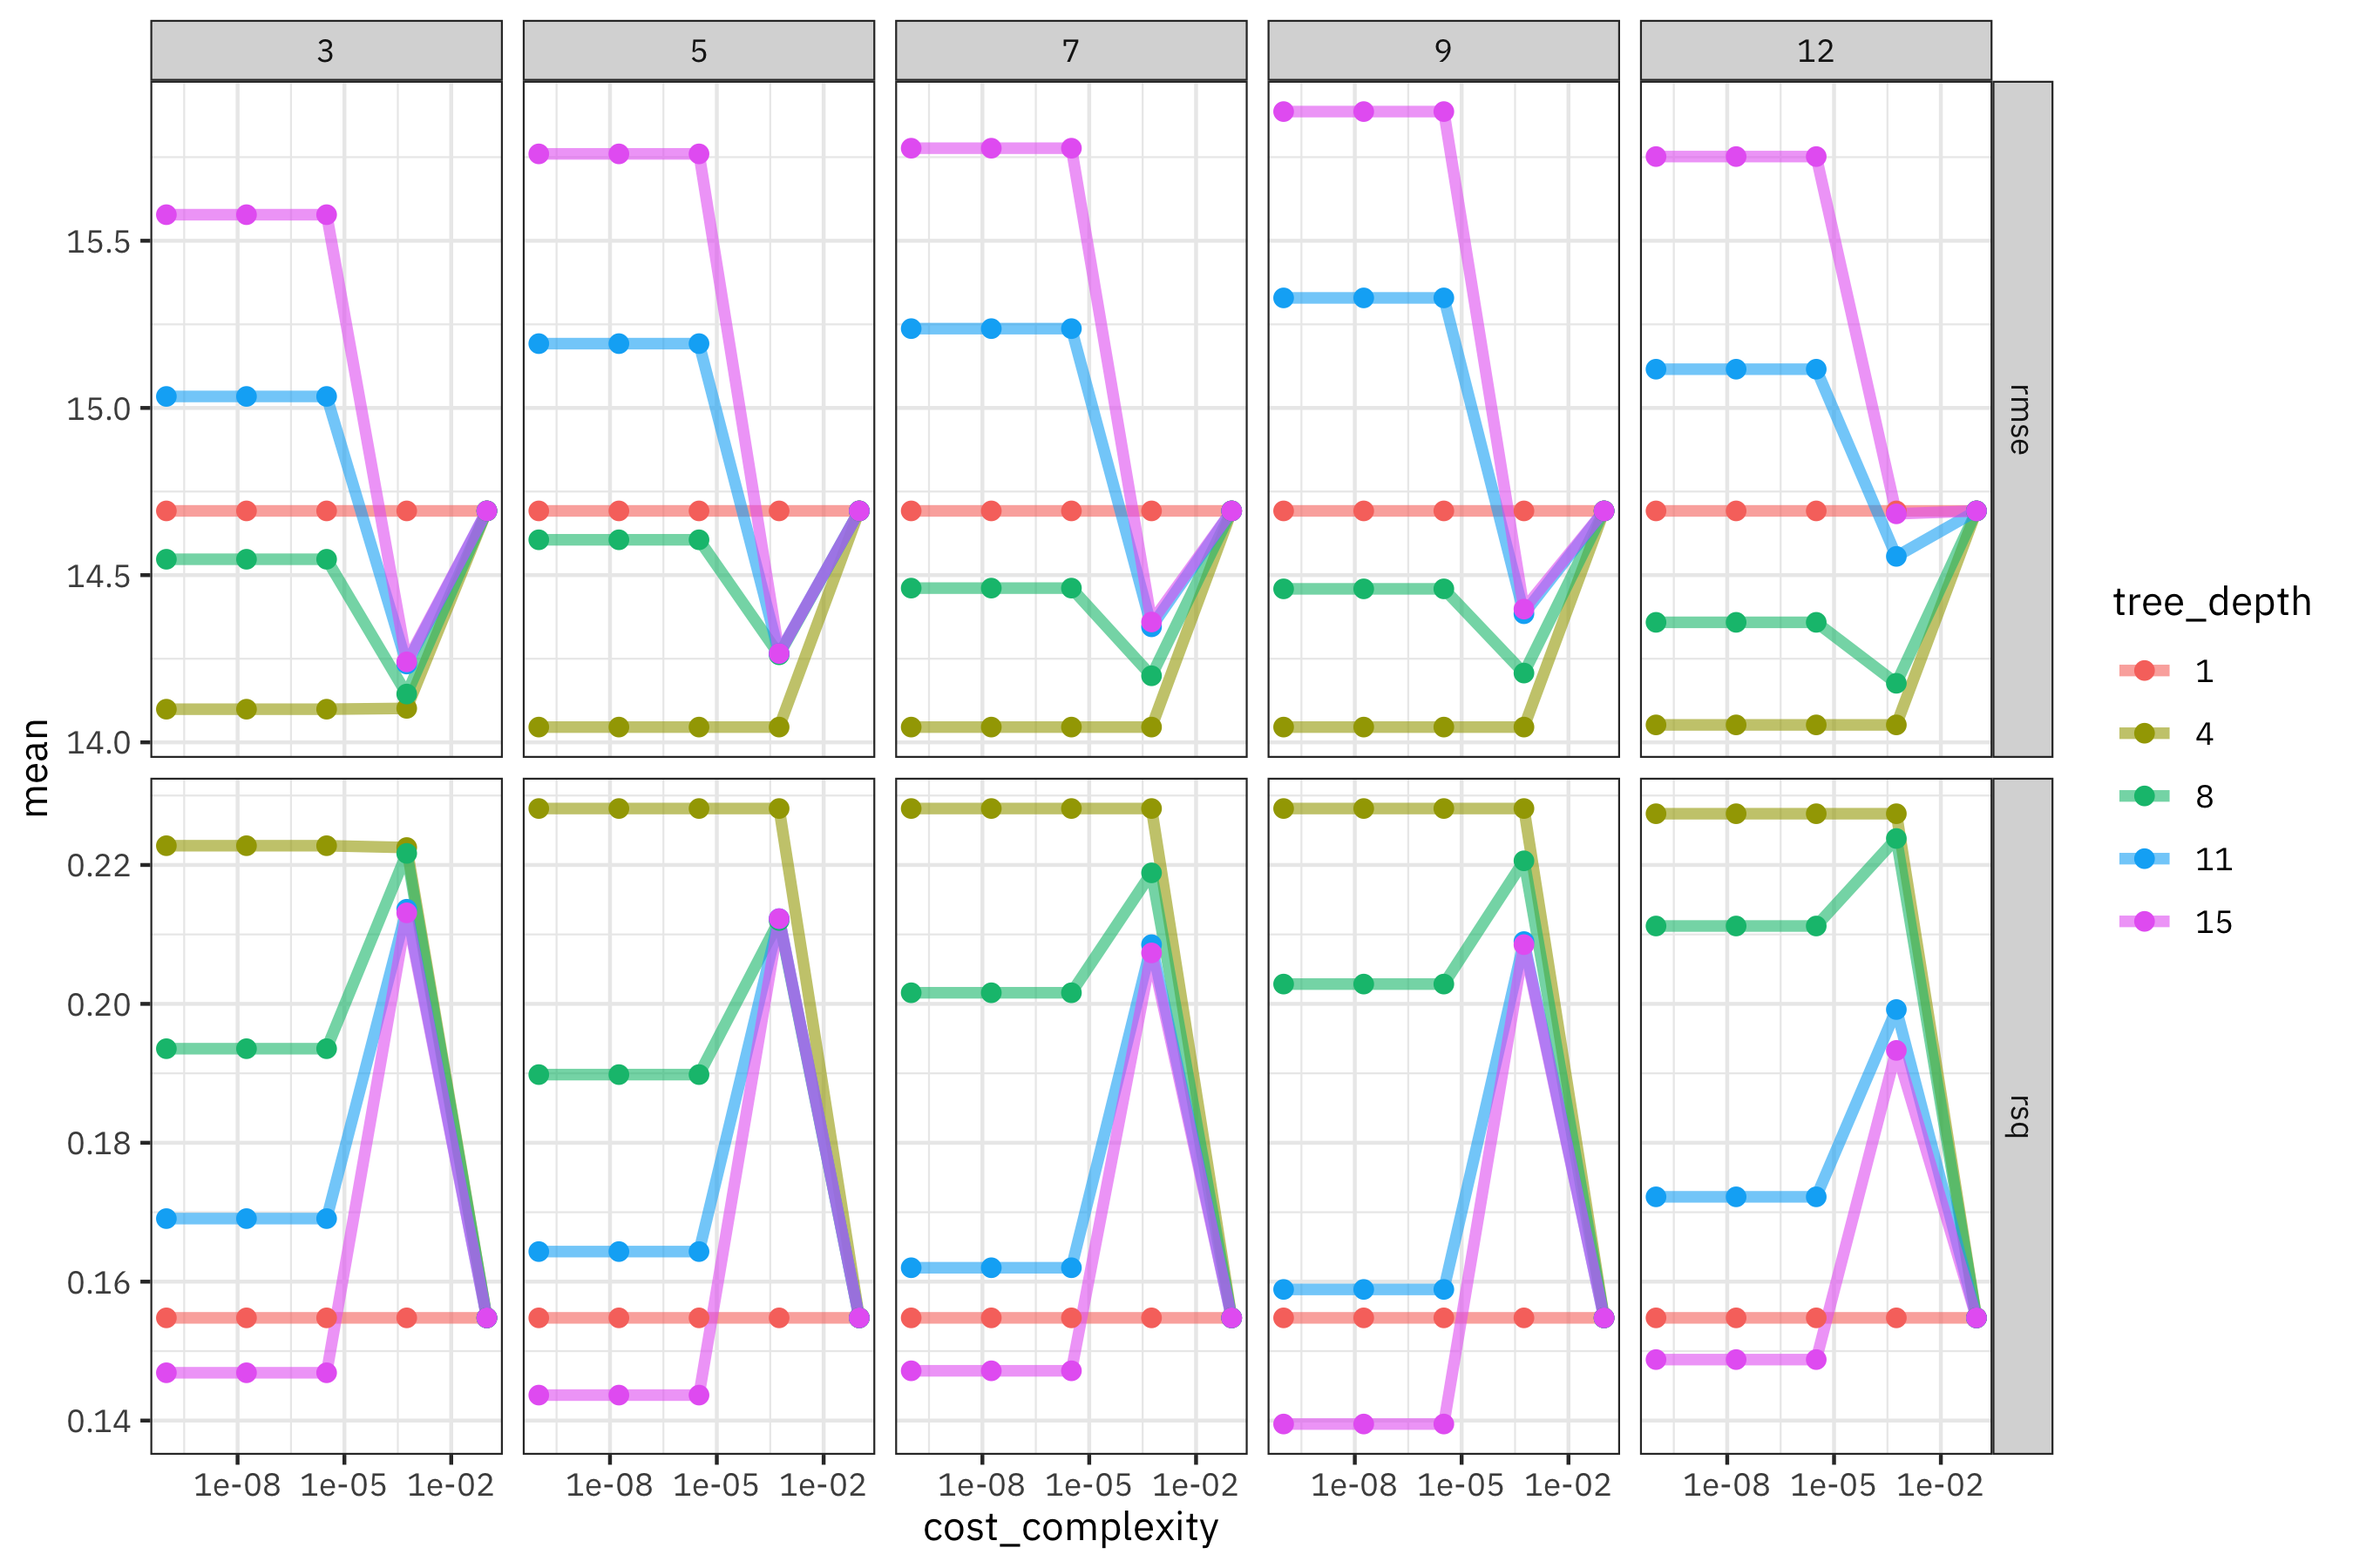
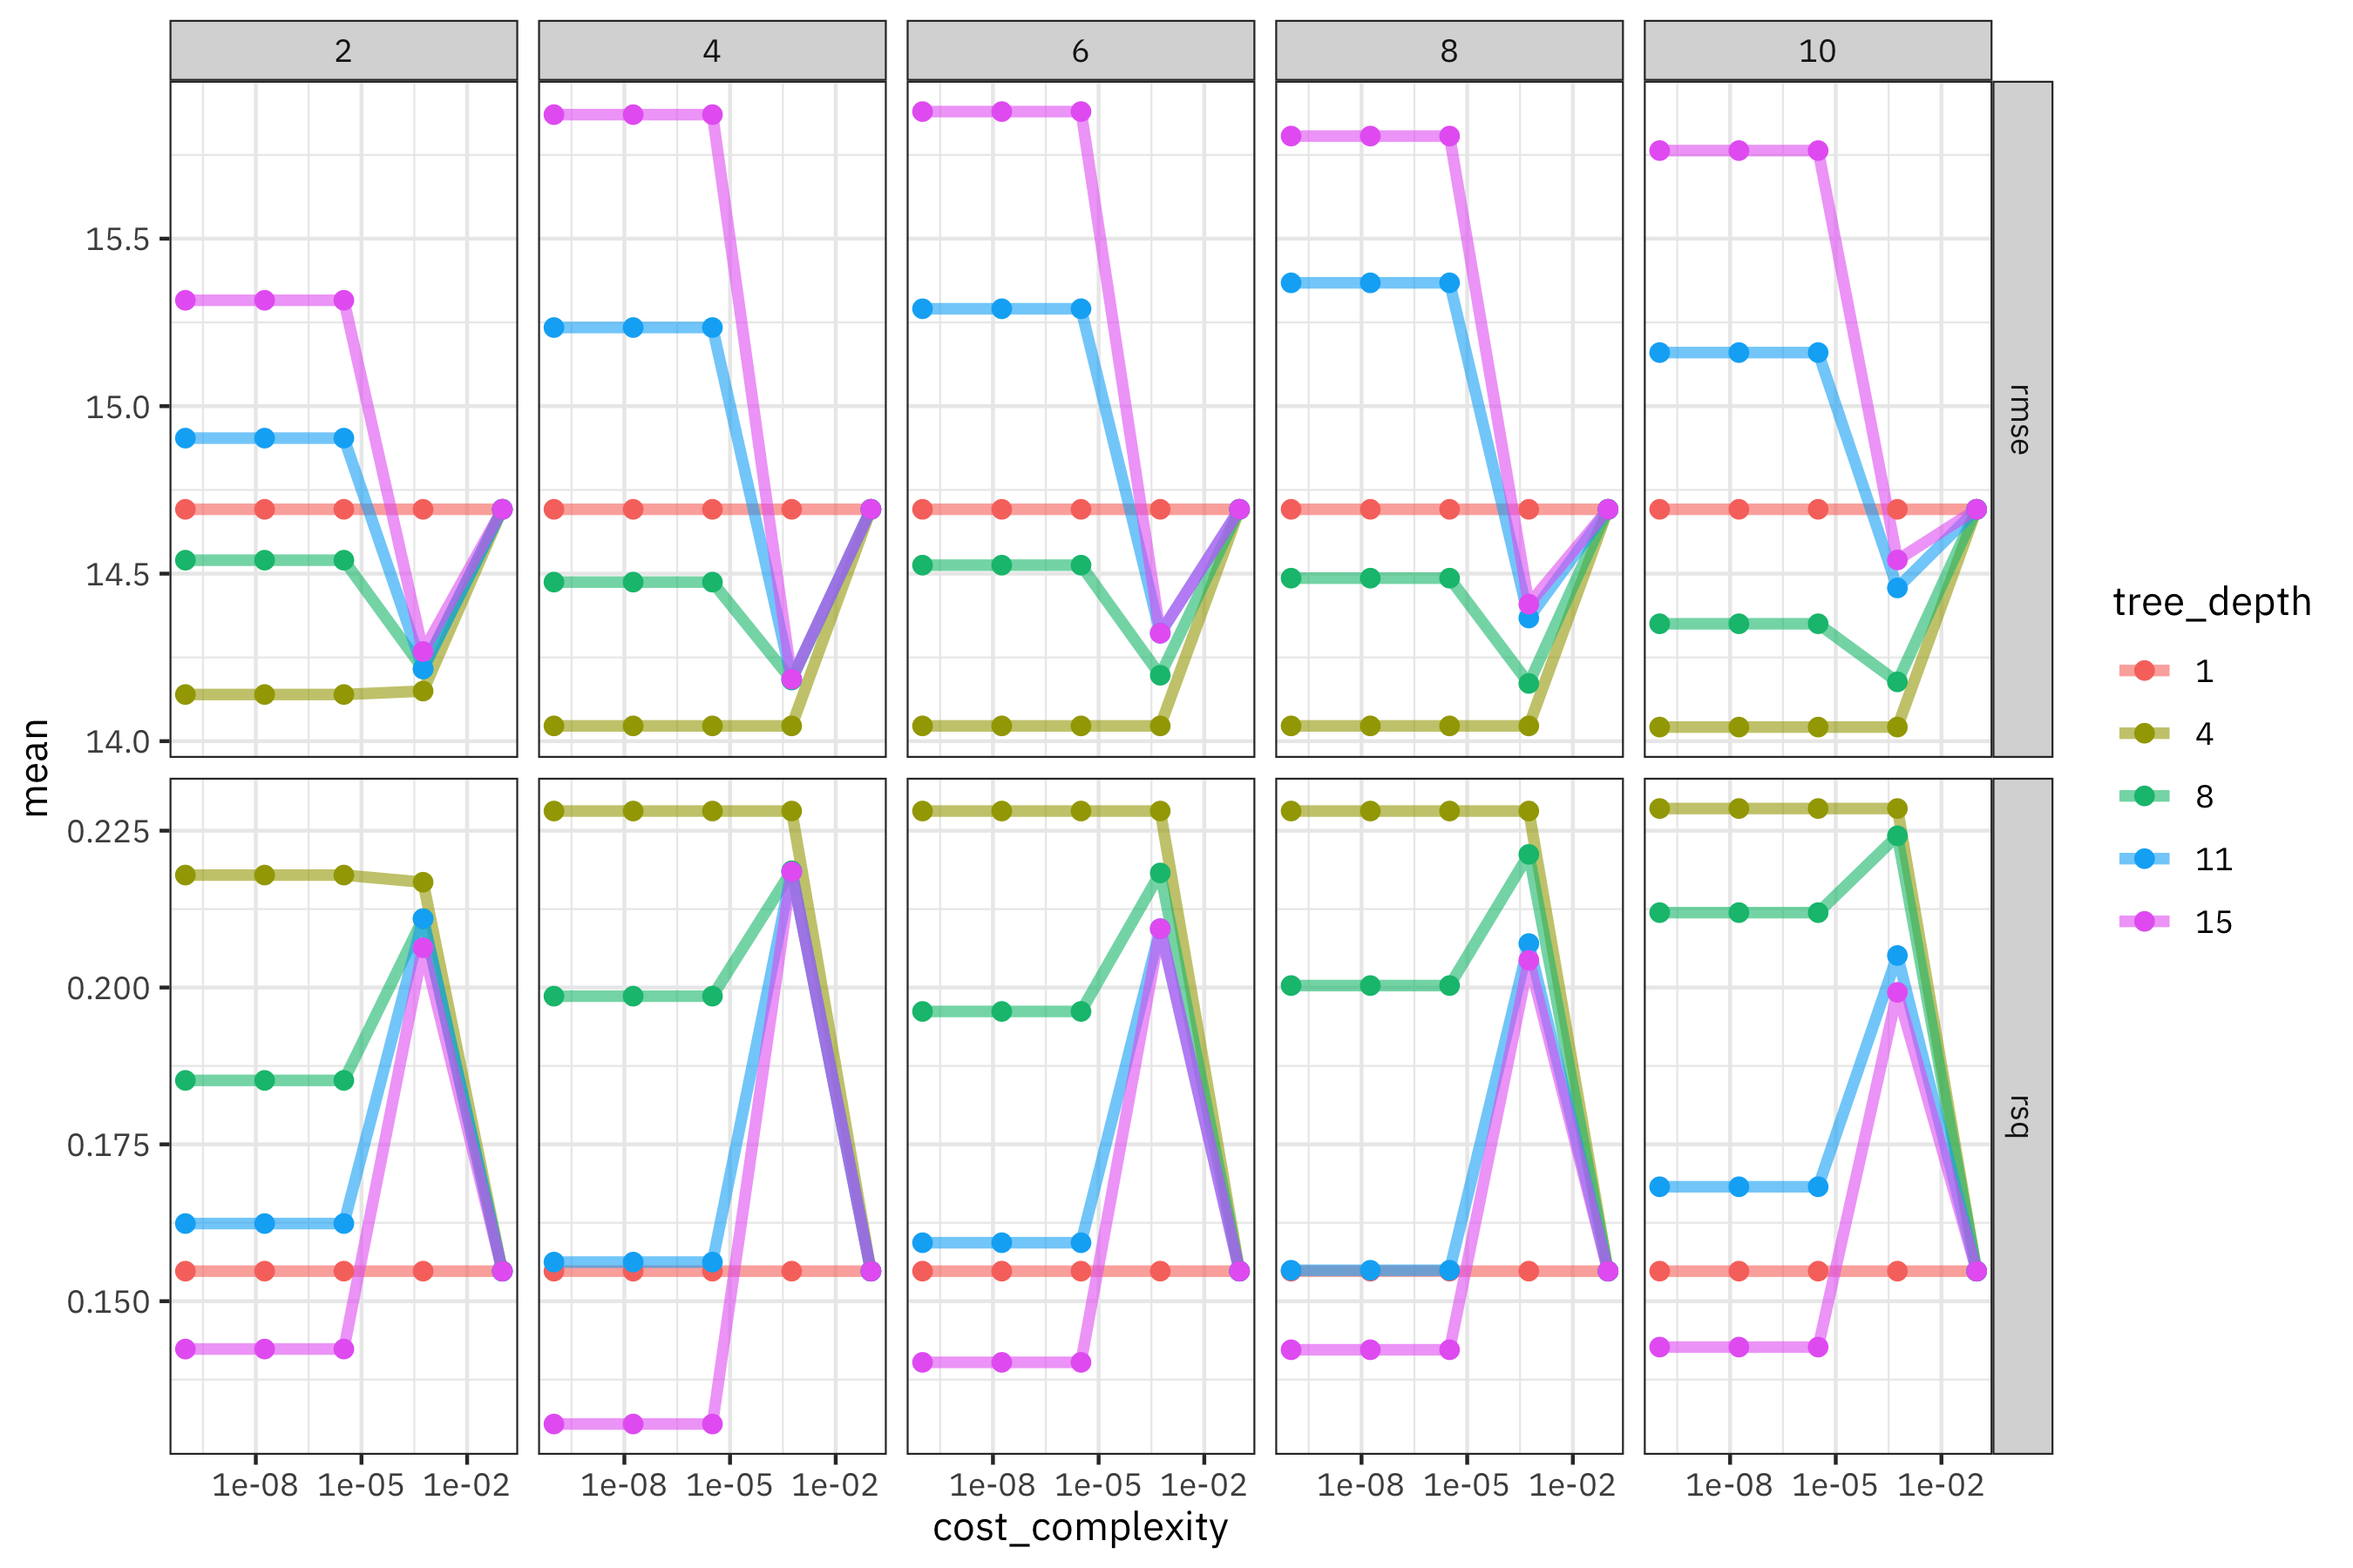
Final slides

Changed region(s): [[0.0311, 0.0, 0.84, 0.9956]]

diff --git a/slides/chapter4_15.md b/slides/chapter4_15.md
@@ -10,50 +10,82 @@ Notes: Congratulations! You finished our fourth and final case study in this cou
 
 # Predicting age
 
+
+```out
+── Model ──────────────────────────────────────────────────────────────────────
+n= 14460 
+
+node), split, n, deviance, yval
+      * denotes terminal node
+
+ 1) root 14460 3691121.000 48.11134  
+   2) PC1< 1.744274 10223 1988405.000 43.87362  
+     4) PC1< -0.3827951 7068 1163392.000 41.99774  
+       8) PC3< 1.289199 5743  864820.600 41.02037  
+        16) PC2>=-6.154196 5715  840659.100 40.90114 *
+        17) PC2< -6.154196 28    7496.429 65.35714 *
+       9) PC3>=1.289199 1325  269307.500 46.23396  
+        18) PC3< 2.638801 1079  211851.500 45.33828 *
+        19) PC3>=2.638801 246   52793.500 50.16260 *
+     5) PC1>=-0.3827951 3155  744421.700 48.07607  
+      10) PC3< 0.2146542 1643  342640.400 45.51430  
+        20) PC4>=-3.03208 1629  332107.700 45.36525 *
+        21) PC4< -3.03208 14    6285.714 62.85714 *
+      11) PC3>=0.2146542 1512  379282.300 50.85979  
+        22) PC1< 0.5623101 693  160369.100 48.51371 *
+        23) PC1>=0.5623101 819  211871.300 52.84493 *
+   3) PC1>=1.744274 4237 1076169.000 58.33609  
+     6) PC1< 4.98542 3009  761850.300 55.43702  
+      12) PC3< 0.09750898 1621  396508.800 53.01049  
+        24) PC1< 3.348799 902  210185.400 50.48780 *
+        25) PC1>=3.348799 719  173381.900 56.17524 *
+      13) PC3>=0.09750898 1388  344650.100 58.27089  
+        26) PC4>=-1.117264 1088  272870.200 57.04044 *
+        27) PC4< -1.117264 300   64158.670 62.73333 *
+     7) PC1>=4.98542 1228  227062.500 65.43974  
+      14) PC4>=-1.213035 750  143755.900 63.21333  
+        28) PC3< -1.338169 120   26320.000 58.00000 *
+        29) PC3>=-1.338169 630  113553.200 64.20635 *
+      15) PC4< -1.213035 478   73755.860 68.93305  
+        30) PC1< 7.248641 297   52855.220 67.44108 *
+        31) PC1>=7.248641 181   19154.700 71.38122 *
+```
+
+Notes: You tuned model hyperparameters for a decision tree (cost complexity and tree depth) along with the number of components to use in PCA for data preprocessing. The resulting decision tree (shown here) exhibits some sensible behavior, with the first principal component being the variable for the first split, etc.
+
+---
+
+# Predicting age
+
 ```r
-rmse(modeling_results, truth = age, estimate = CART)
+final_tree <- final_wf %>%
+  last_fit(sisters_split) 
+
+final_tree %>%
+  collect_metrics()
 ```
 
 ```out
-# A tibble: 3 x 3
+# A tibble: 2 x 3
   .metric .estimator .estimate
   <chr>   <chr>          <dbl>
-1 rmse    standard        14.7
+1 rmse    standard      14.0  
+2 rsq     standard       0.236
 ```
 
-```r
-rmse(modeling_results, truth = age, estimate = GBM)
-```
-
-```out
-# A tibble: 3 x 3
-  .metric .estimator .estimate
-  <chr>   <chr>          <dbl>
-1 rmse    standard        12.6 
-```
-
-```r
-rmse(modeling_results, truth = age, estimate = XBG)
-```
-
-```out
-# A tibble: 3 x 3
-  .metric .estimator .estimate
-  <chr>   <chr>          <dbl>
-1 rmse    standard        12.5
-```
-
-Notes: You found that in this case study on the beliefs and opinions of Catholic nuns in the 1960s, the XGBoost gradient boosting model performed best, at least using the defaults for the various tuning parameters. 
+The performance metrics you achieved on the testing set indicate that you did not overfit during the tuning process.
 
 ---
 
 # Predicting age
 
 - **Build** your model with your training data
-- **Choose** your model with your validation data
+- **Choose** your model and model hyperparameters with your validation data
 - **Evaluate** your model with your testing data
 
-Notes: You divided your data into three subsets, used a training set to train your models, a validation set to choose between them, and then a testing set to evaluate the performance of your model and estimate how it will do with new data.
+Notes: You divided your data into three subsets: a training set to train your model, a validation set to tune hyperparameters, and then a testing set to evaluate the performance of your model and estimate how it will do with new data.
+
+You can also use a validation set to choose between different models.
 
 ---
 
@@ -66,26 +98,27 @@ Notes: You divided your data into three subsets, used a training set to train yo
 
 Notes: This analysis was just the final example in the series of predictive projects you approached in this course. 
 
-You learned how to go from raw data to exploring that data to training models to evaluating those models using the [caret](https://topepo.github.io/caret/) package, the [tidymodels](https://github.com/tidymodels) metapackage, and important tools for exploratory data analysis from the [tidyverse](https://tidyverse.tidyverse.org/) ecosystem, like dplyr and ggplot2.
+You learned how to go from raw data to exploring that data to training models to evaluating those models using the [tidymodels](https://github.com/tidymodels) metapackage and important tools for exploratory data analysis from the [tidyverse](https://tidyverse.tidyverse.org/) ecosystem, like dplyr and ggplot2.
 
 ---
 
 #  Practical machine learning
 
 - Dealing with class imbalance
-- Improving performance with resampling (bootstrap, cross-validation)
+- Measuring performance with resampling (bootstrap, cross-validation)
+- Tuning hyperparameters
 
-Notes: In this course, I've chosen to spend our energy and time on some of the issues that I have found to be the most important and most impactful from my real world, practical predictive modeling experience. These include knowing what to do when you are faced with class imbalance, and having some options in your toolkit for resampling approaches. 
+Notes: In this course, I've chosen to spend our energy and time on some of the issues that I have found to be the most important and most impactful from my real world, practical predictive modeling experience. These include knowing what to do when you are faced with class imbalance, having some options in your toolkit for resampling approaches, and optimizing model hyperparametrs. 
 
 ---
 
-# Practical machine learning
+#  Practical machine learning
 
-- Dealing with class imbalance
-- Improving performance with resampling (bootstrap, cross-validation)
-- Hyperparameter tuning?
+![tidymodels](https://github.com/juliasilge/course-ML-tidymodels/blob/master/img/tidymodels_small.png?raw=true)
 
-Notes: By contrast, we haven't talked about hyperparameter tuning for any of these models. That is something you can do to improve performance for models like xgboost, but I'll be honest, in my real world work, the gains from optimizing hyperparameters have been smaller, compared to gains from time spent on the other practical considerations we have explored in this course.
+Notes: To keep going in your machine learning journey, check out the resources at [`tidymodels.org`](https://www.tidymodels.org/). This site is a central location for resources and documentation for tidymodels packages, and there is a ton to explore and learn. 🚀
+
+There are five articles at [**Get Started**](https://www.tidymodels.org/start/) that guide you through what you need to know to use tidymodels, and many more resources at [**Learn**](https://www.tidymodels.org/learn/).
 
 ---
 
